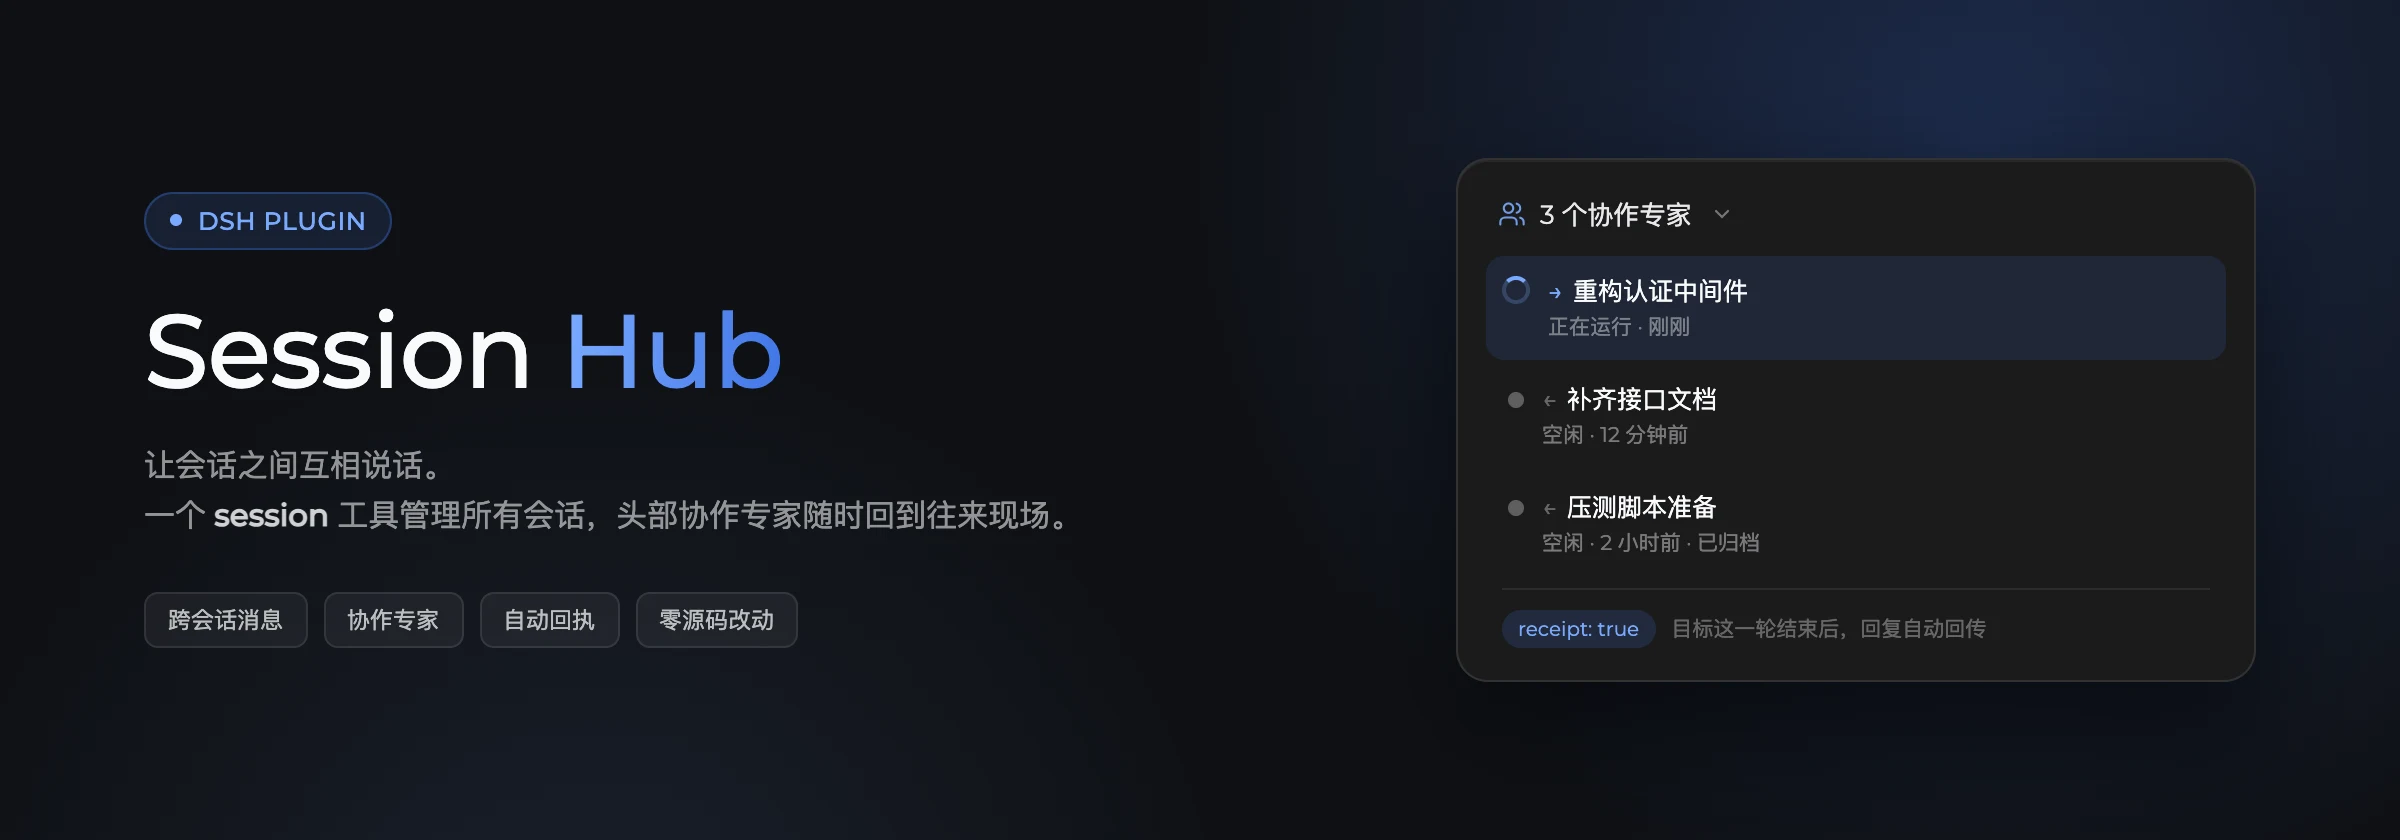
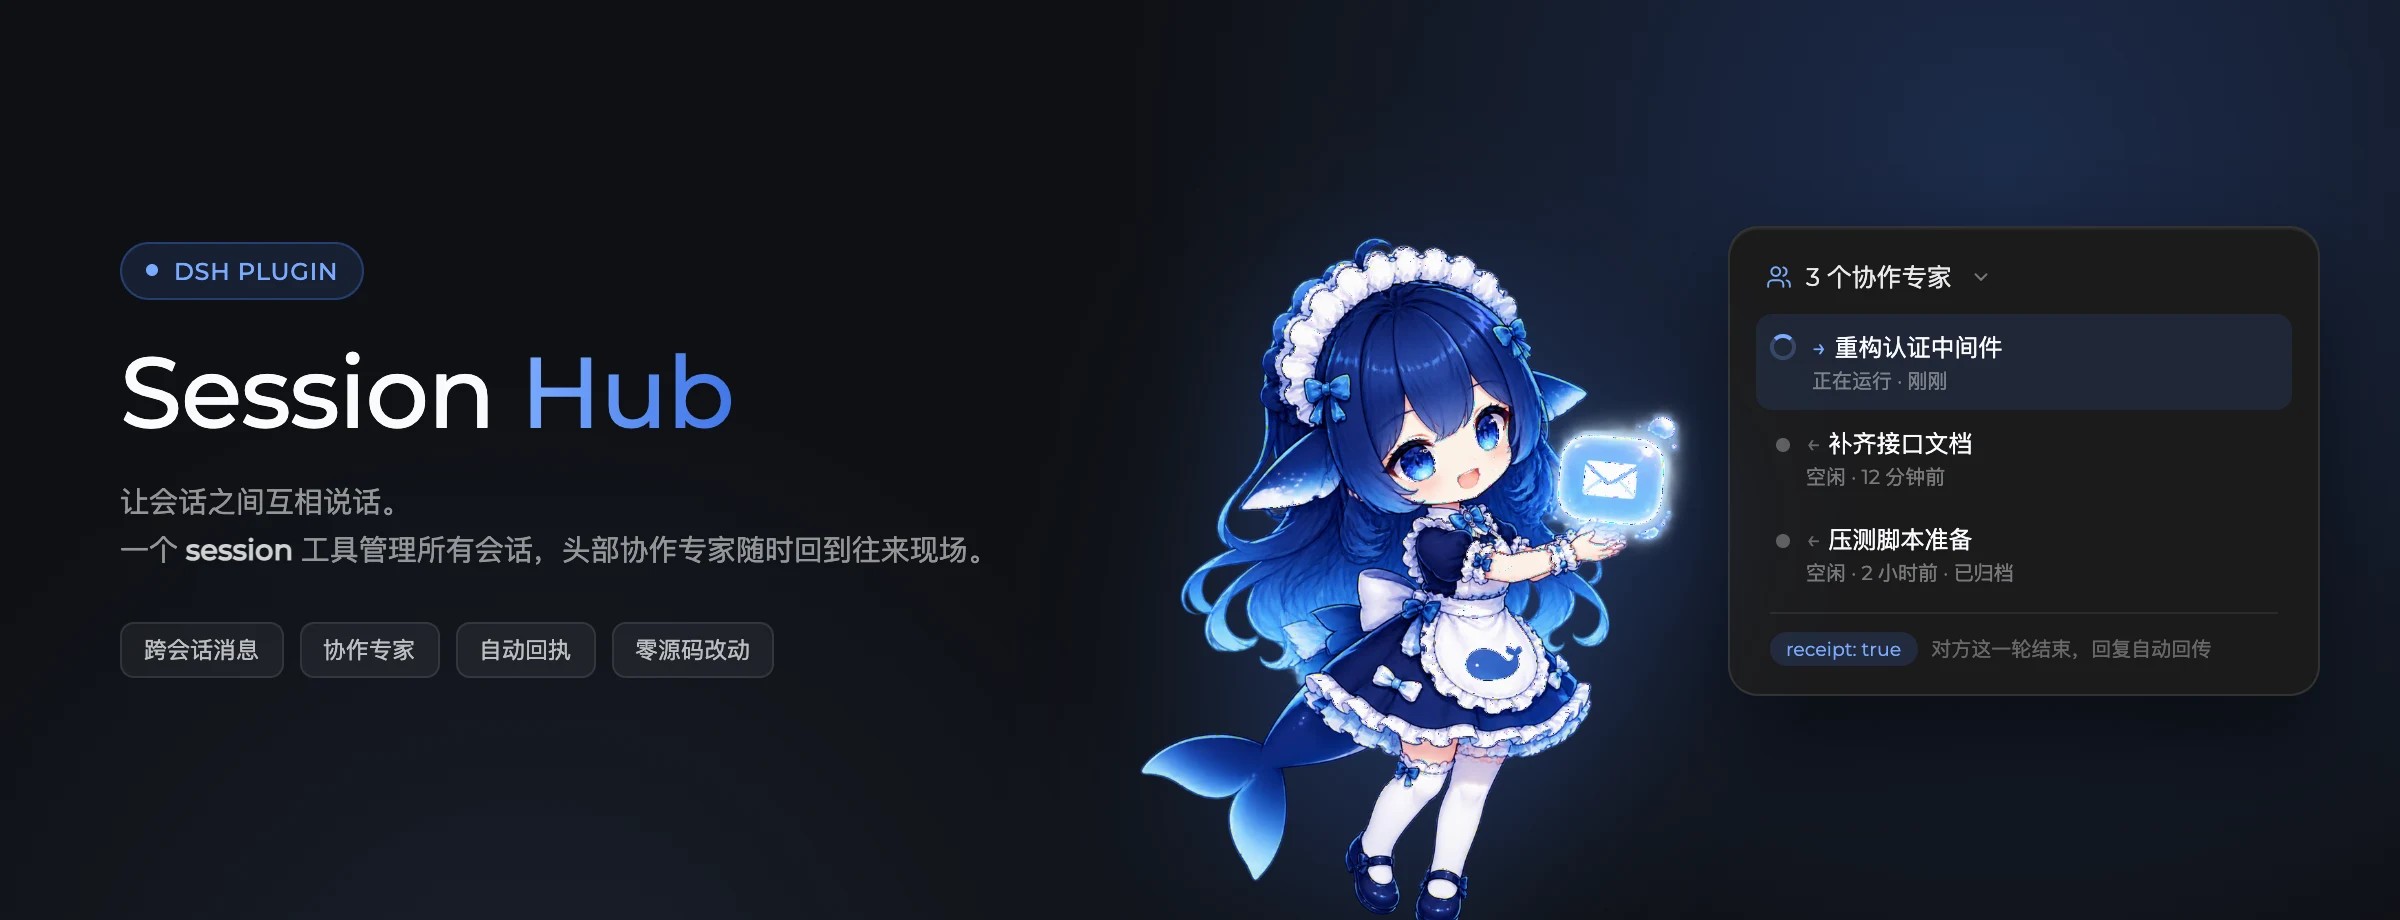
hero 卡改为大肥鱼吉祥物主视觉（三段式：文案 / 吉祥物 / 协作专家面板）

diff --git a/docs/screenshots/hero.html b/docs/screenshots/hero.html
@@ -1,57 +1,61 @@
 <!doctype html>
 <html><head><meta charset="utf-8">
 <style>
-  @font-face { font-family: 'Montserrat'; src: url('file:///Users/apple/Documents/github/agnx/packages/dsh/client/ui-theme/src/styles/montserrat-regular.woff2') format('woff2'); font-weight: 400; }
-  @font-face { font-family: 'Montserrat'; src: url('file:///Users/apple/Documents/github/agnx/packages/dsh/client/ui-theme/src/styles/montserrat-medium.woff2') format('woff2'); font-weight: 500; }
-  * { margin:0; padding:0; box-sizing:border-box; }
-  body { width:1200px; height:420px; background:#0F1115; overflow:hidden; font-family:'Montserrat',-apple-system,'PingFang SC',sans-serif; }
-  .wrap { position:relative; width:1200px; height:420px; display:flex; align-items:center; padding:0 72px; }
-  .glow1 { position:absolute; width:900px; height:900px; border-radius:50%; background:radial-gradient(circle, rgba(65,118,230,.26) 0%, rgba(65,118,230,0) 62%); top:-380px; right:-240px; }
-  .glow2 { position:absolute; width:700px; height:700px; border-radius:50%; background:radial-gradient(circle, rgba(122,170,255,.10) 0%, rgba(122,170,255,0) 66%); bottom:-420px; left:-60px; }
-  .left { position:relative; z-index:2; width:620px; }
-  .badge { display:inline-flex; align-items:center; gap:8px; padding:6px 12px; border-radius:999px; background:rgba(65,118,230,.14); border:1px solid rgba(65,118,230,.34); color:#7AAAFF; font-size:12.5px; font-weight:500; letter-spacing:.3px; margin-bottom:22px; }
-  .badge .dot { width:6px; height:6px; border-radius:50%; background:#7AAAFF; }
-  h1 { font-size:52px; line-height:1.1; font-weight:500; color:#F9FAFB; letter-spacing:-.6px; margin-bottom:16px; }
-  h1 .accent { background:linear-gradient(92deg,#7AAAFF,#4176E6); -webkit-background-clip:text; background-clip:text; -webkit-text-fill-color:transparent; }
-  .sub { font-size:15.5px; line-height:1.62; color:rgba(249,250,251,.56); max-width:560px; }
-  .tags { display:flex; gap:8px; margin-top:26px; }
-  .tag { padding:5px 11px; border-radius:7px; background:rgba(255,255,255,.05); border:1px solid rgba(255,255,255,.09); color:rgba(249,250,251,.72); font-size:11.5px; }
-  .right { position:relative; z-index:2; flex:1; display:flex; justify-content:flex-end; }
-  .card { position:relative; z-index:3; width:400px; border-radius:16px; background:rgb(27,27,28); border:1px solid rgba(255,255,255,.10); box-shadow:0 24px 60px rgba(0,0,0,.55), inset 0 1px 0 rgba(255,255,255,.06); padding:14px; backdrop-filter:blur(12px); }
-  .cardHead { display:flex; align-items:center; gap:7px; color:rgba(249,250,251,.92); font-size:13px; padding:4px 6px 12px; }
-  .cardHead svg { flex:none; opacity:.9; }
-  .cardHead .chev { margin-left:2px; opacity:.45; }
-  .row { display:flex; align-items:flex-start; gap:9px; padding:9px 8px; border-radius:9px; }
-  .row + .row { margin-top:2px; }
-  .row.on { background:rgba(65,118,230,.13); }
-  .spin { flex:none; width:14px; height:14px; margin-top:1px; border-radius:50%; border:2px solid rgba(122,170,255,.24); border-top-color:#7AAAFF; }
-  .idle { flex:none; width:8px; height:8px; margin:5px 0 0 3px; border-radius:50%; background:rgba(249,250,251,.30); }
-  .rtext { display:flex; flex-direction:column; gap:2px; min-width:0; }
-  .rtitle { font-size:12.5px; color:#F9FAFB; white-space:nowrap; overflow:hidden; text-overflow:ellipsis; }
-  .rtitle .arrow { color:#7AAAFF; margin-right:5px; }
-  .rmeta { font-size:10.5px; color:rgba(249,250,251,.42); }
-  .divider { height:1px; background:rgba(255,255,255,.07); margin:6px 8px 0; }
-  .foot { display:flex; align-items:center; gap:8px; padding:10px 8px 2px; font-size:10.5px; color:rgba(249,250,251,.34); }
-  .pill { padding:3px 8px; border-radius:999px; background:rgba(65,118,230,.16); color:#7AAAFF; font-size:10px; }
-</style></head>
-<body><div class="wrap">
-  <div class="glow1"></div><div class="glow2"></div>
+  @font-face{font-family:'Montserrat';src:url('file:///Users/apple/Documents/github/agnx/packages/dsh/client/ui-theme/src/styles/montserrat-regular.woff2') format('woff2');font-weight:400}
+  @font-face{font-family:'Montserrat';src:url('file:///Users/apple/Documents/github/agnx/packages/dsh/client/ui-theme/src/styles/montserrat-medium.woff2') format('woff2');font-weight:500}
+  *{margin:0;padding:0;box-sizing:border-box}
+  body{width:1200px;height:460px;background:#0F1115;overflow:hidden;font-family:'Montserrat',-apple-system,'PingFang SC',sans-serif}
+  .wrap{position:relative;width:1200px;height:460px;display:flex;align-items:center;padding:0 40px 0 60px;gap:0}
+  .g1{position:absolute;width:1000px;height:1000px;border-radius:50%;background:radial-gradient(circle,rgba(65,118,230,.26) 0%,rgba(65,118,230,0) 62%);top:-420px;right:-300px}
+  .g2{position:absolute;width:760px;height:760px;border-radius:50%;background:radial-gradient(circle,rgba(122,170,255,.10) 0%,rgba(122,170,255,0) 66%);bottom:-460px;left:-120px}
+  .left{position:relative;z-index:2;width:470px;flex:none}
+  .badge{display:inline-flex;align-items:center;gap:8px;padding:6px 12px;border-radius:999px;background:rgba(65,118,230,.14);border:1px solid rgba(65,118,230,.34);color:#7AAAFF;font-size:12px;font-weight:500;letter-spacing:.4px;margin-bottom:20px}
+  .badge .d{width:6px;height:6px;border-radius:50%;background:#7AAAFF}
+  h1{font-size:50px;line-height:1.08;font-weight:500;color:#F9FAFB;letter-spacing:-.6px;margin-bottom:15px}
+  h1 .accent{background:linear-gradient(92deg,#7AAAFF,#4176E6);-webkit-background-clip:text;background-clip:text;-webkit-text-fill-color:transparent}
+  .sub{font-size:14.5px;line-height:1.66;color:rgba(249,250,251,.56);max-width:440px}
+  .tags{display:flex;gap:8px;margin-top:24px;flex-wrap:wrap}
+  .tag{padding:5px 11px;border-radius:7px;background:rgba(255,255,255,.05);border:1px solid rgba(255,255,255,.09);color:rgba(249,250,251,.72);font-size:11.5px}
+  .mid{position:relative;z-index:3;flex:none;width:330px;display:flex;align-items:flex-end;justify-content:center;height:460px;margin:0 8px 0 14px}
+  .mid img{width:352px;margin-bottom:-8px;filter:drop-shadow(0 18px 42px rgba(65,118,230,.34))}
+  .msg{position:absolute;top:96px;right:6px;background:rgba(65,118,230,.20);border:1px solid rgba(65,118,230,.44);color:#BBD4FF;font-size:11.5px;padding:6px 11px;border-radius:10px;backdrop-filter:blur(8px);white-space:nowrap}
+  .msg:after{content:"";position:absolute;left:-5px;top:14px;width:8px;height:8px;background:inherit;border-left:1px solid rgba(65,118,230,.44);border-bottom:1px solid rgba(65,118,230,.44);transform:rotate(45deg)}
+  .right{position:relative;z-index:2;flex:1;display:flex;justify-content:flex-end;min-width:0}
+  .card{width:296px;flex:none;border-radius:15px;background:rgb(27,27,28);border:1px solid rgba(255,255,255,.10);box-shadow:0 22px 54px rgba(0,0,0,.55),inset 0 1px 0 rgba(255,255,255,.06);padding:13px}
+  .ch{display:flex;align-items:center;gap:7px;color:rgba(249,250,251,.92);font-size:12.5px;padding:3px 5px 10px}
+  .ch .chev{margin-left:2px;opacity:.45}
+  .row{display:flex;align-items:flex-start;gap:8px;padding:8px 7px;border-radius:8px}
+  .row.on{background:rgba(65,118,230,.13)}
+  .spin{flex:none;width:13px;height:13px;margin-top:2px;border-radius:50%;border:2px solid rgba(122,170,255,.24);border-top-color:#7AAAFF}
+  .idle{flex:none;width:7px;height:7px;margin:6px 0 0 3px;border-radius:50%;background:rgba(249,250,251,.30)}
+  .rt{display:flex;flex-direction:column;gap:1px;min-width:0}
+  .rl{font-size:12px;color:#F9FAFB;white-space:nowrap;overflow:hidden;text-overflow:ellipsis}
+  .rl .ar{color:#7AAAFF;margin-right:4px}
+  .rm{font-size:10px;color:rgba(249,250,251,.42)}
+  .div{height:1px;background:rgba(255,255,255,.07);margin:5px 7px 0}
+  .ft{display:flex;align-items:center;gap:7px;padding:9px 7px 1px;font-size:10px;color:rgba(249,250,251,.34)}
+  .pill{padding:3px 8px;border-radius:999px;background:rgba(65,118,230,.16);color:#7AAAFF;font-size:9.5px}
+</style></head><body><div class="wrap">
+  <div class="g1"></div><div class="g2"></div>
   <div class="left">
-    <div class="badge"><span class="dot"></span>DSH PLUGIN</div>
+    <div class="badge"><span class="d"></span>DSH PLUGIN</div>
     <h1>Session <span class="accent">Hub</span></h1>
     <div class="sub">让会话之间互相说话。<br>一个 <b style="color:rgba(249,250,251,.82)">session</b> 工具管理所有会话，头部协作专家随时回到往来现场。</div>
     <div class="tags"><span class="tag">跨会话消息</span><span class="tag">协作专家</span><span class="tag">自动回执</span><span class="tag">零源码改动</span></div>
   </div>
+  <div class="mid">
+    <img src="file:///tmp/mascot/mascot-trim.png" alt="">
+  </div>
   <div class="right"><div class="card">
-    <div class="cardHead">
-      <svg width="14" height="14" viewBox="0 0 24 24" fill="none" stroke="#7AAAFF" stroke-width="1.8" stroke-linecap="round" stroke-linejoin="round"><path d="M16 21v-2a4 4 0 0 0-4-4H6a4 4 0 0 0-4 4v2"/><circle cx="9" cy="7" r="4"/><path d="M22 21v-2a4 4 0 0 0-3-3.87"/><path d="M16 3.13a4 4 0 0 1 0 7.75"/></svg>
+    <div class="ch">
+      <svg width="13" height="13" viewBox="0 0 24 24" fill="none" stroke="#7AAAFF" stroke-width="1.8" stroke-linecap="round" stroke-linejoin="round"><path d="M16 21v-2a4 4 0 0 0-4-4H6a4 4 0 0 0-4 4v2"/><circle cx="9" cy="7" r="4"/><path d="M22 21v-2a4 4 0 0 0-3-3.87"/><path d="M16 3.13a4 4 0 0 1 0 7.75"/></svg>
       3 个协作专家
-      <svg class="chev" width="12" height="12" viewBox="0 0 24 24" fill="none" stroke="currentColor" stroke-width="2.2" stroke-linecap="round"><path d="m6 9 6 6 6-6"/></svg>
+      <svg class="chev" width="11" height="11" viewBox="0 0 24 24" fill="none" stroke="currentColor" stroke-width="2.2" stroke-linecap="round"><path d="m6 9 6 6 6-6"/></svg>
     </div>
-    <div class="row on"><div class="spin"></div><div class="rtext"><div class="rtitle"><span class="arrow">→</span>重构认证中间件</div><div class="rmeta">正在运行 · 刚刚</div></div></div>
-    <div class="row"><div class="idle"></div><div class="rtext"><div class="rtitle"><span class="arrow" style="color:rgba(249,250,251,.34)">←</span>补齐接口文档</div><div class="rmeta">空闲 · 12 分钟前</div></div></div>
-    <div class="row"><div class="idle"></div><div class="rtext"><div class="rtitle"><span class="arrow" style="color:rgba(249,250,251,.34)">←</span>压测脚本准备</div><div class="rmeta">空闲 · 2 小时前 · 已归档</div></div></div>
-    <div class="divider"></div>
-    <div class="foot"><span class="pill">receipt: true</span>目标这一轮结束后，回复自动回传</div>
+    <div class="row on"><div class="spin"></div><div class="rt"><div class="rl"><span class="ar">→</span>重构认证中间件</div><div class="rm">正在运行 · 刚刚</div></div></div>
+    <div class="row"><div class="idle"></div><div class="rt"><div class="rl"><span class="ar" style="color:rgba(249,250,251,.34)">←</span>补齐接口文档</div><div class="rm">空闲 · 12 分钟前</div></div></div>
+    <div class="row"><div class="idle"></div><div class="rt"><div class="rl"><span class="ar" style="color:rgba(249,250,251,.34)">←</span>压测脚本准备</div><div class="rm">空闲 · 2 小时前 · 已归档</div></div></div>
+    <div class="div"></div>
+    <div class="ft"><span class="pill">receipt: true</span>对方这一轮结束，回复自动回传</div>
   </div></div>
 </div></body></html>

diff --git a/docs/screenshots/README.md b/docs/screenshots/README.md
@@ -12,3 +12,4 @@
 | `hero.webp` | README 顶部宣传卡（源码 `hero.html`，1200×420 @2x，DSH 品牌色 `rgb(65,118,230)`） |
 | `at-flow.webp` | 跨会话协作四步流程图（源码 `at-flow.html`） |
 | `at-picker.webp` | 输入框输入 `@` 弹出的会话选择器 |
+| `mascot.webp` | 吉祥物「大肥鱼」（DSH 玩偶形象，透明底；hero 卡的中间人物） |
